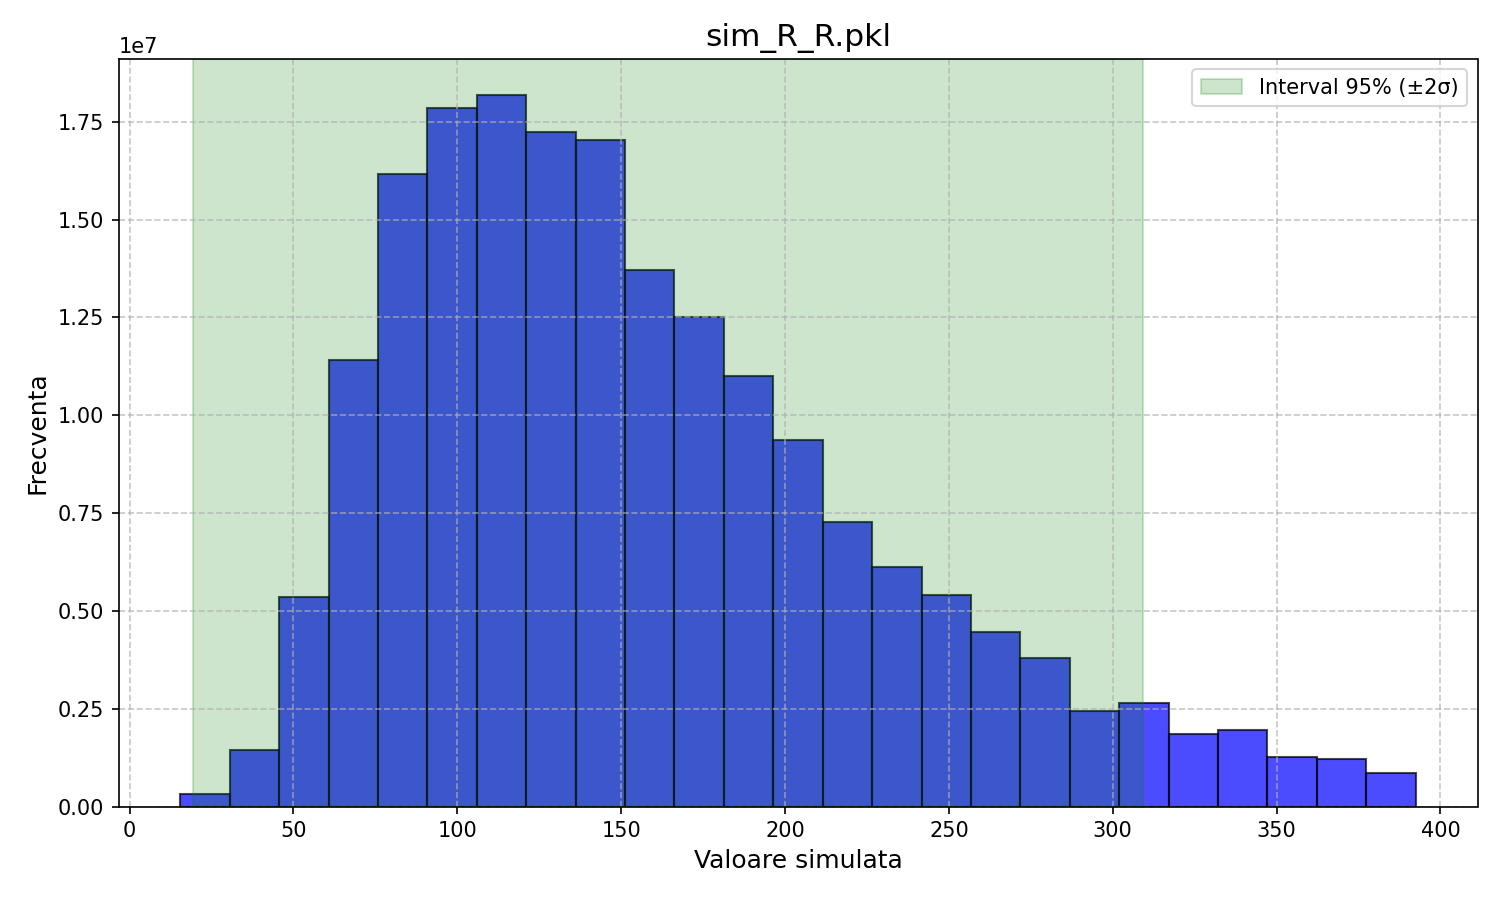
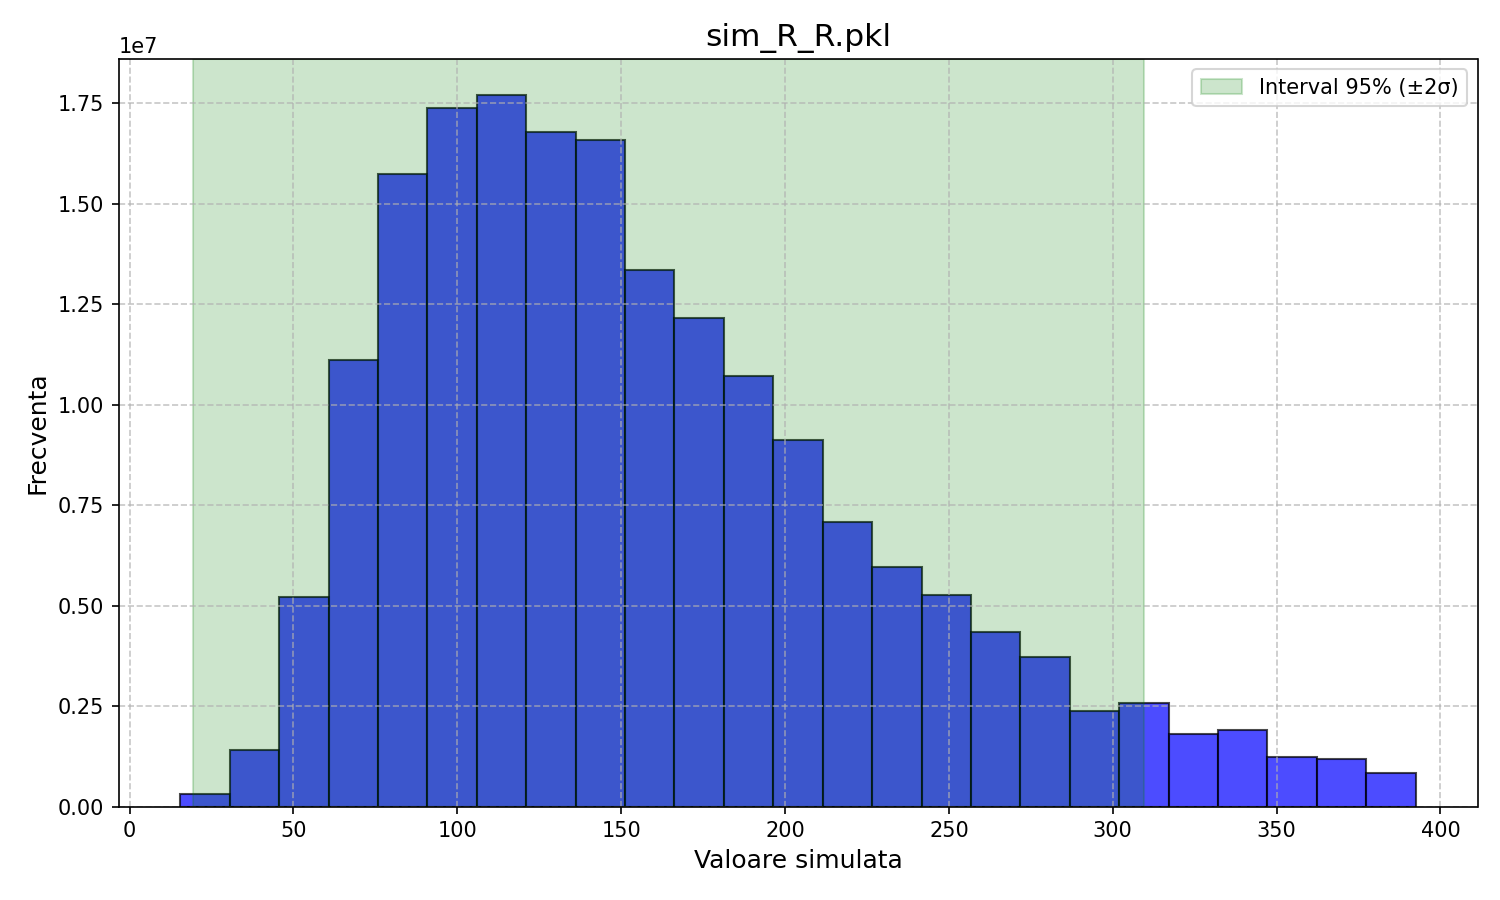
Is done

diff --git a/main.py b/main.py
@@ -3,16 +3,17 @@ import pickle
 import numpy as np
 import matplotlib.pyplot as plt
 
+
 # Functie pentru incarcare date dintr-un fisier .pkl
 def load_data_from_pickle(file_path):
     try:
-        # Incarca datele folosind pickle
         with open(file_path, "rb") as f:
             data = pickle.load(f)
         return np.array(data)
     except:
         print("Eroare la incarcarea fisierului:", file_path)
         return None
+
 
 def monte_carlo_simulation_batches(data, total_iterations=3_825_385_140, batch_size=1_000_000, hist_bins=100):
     if data is None or len(data) == 0:
@@ -29,18 +30,28 @@ def monte_carlo_simulation_batches(data, total_iterations=3_825_385_140, batch_s
         idx = np.random.randint(0, len(data), size=batch_size)
         vals = data[idx]
         mn, mx = vals.min(), vals.max()
-        if mn < gmin: gmin = mn
-        if mx > gmax: gmax = mx
+        if mn < gmin:
+            gmin = mn
+        if mx > gmax:
+            gmax = mx
         c, _ = np.histogram(vals, bins=hist_bins, range=hrange)
         hist_counts += c
 
-    return {"hist_counts": hist_counts, "hist_range": hrange, "hist_bins": hist_bins, "min": gmin, "max": gmax}
+    return {
+        "hist_counts": hist_counts,
+        "hist_range": hrange,
+        "hist_bins": hist_bins,
+        "min": gmin,
+        "max": gmax
+    }
+
 
 def plot_histogram_only(hist_counts, hist_range, hist_bins, output_path, title):
     plt.figure(figsize=(10, 6))
     hmin, hmax = hist_range
     edges = np.linspace(hmin, hmax, hist_bins + 1)
-    plt.bar(edges[:-1], hist_counts, width=np.diff(edges), alpha=0.7, color="blue", edgecolor="black")  # Bara histogramelor
+    plt.bar(edges[:-1], hist_counts, width=np.diff(edges), alpha=0.7,
+            color="blue", edgecolor="black")
 
     centers = 0.5 * (edges[:-1] + edges[1:])
     total = hist_counts.sum()
@@ -50,9 +61,10 @@ def plot_histogram_only(hist_counts, hist_range, hist_bins, output_path, title):
         mean = (centers * hist_counts).sum() / total
         var = ((centers - mean) ** 2 * hist_counts).sum() / total
         std = np.sqrt(var)
-        left = mean - 2 * std  # Limita stanga
-        right = mean + 2 * std  # Limita dreapta
-        plt.axvspan(left, right, color="green", alpha=0.2, label="Interval 95% (±2σ)")
+        left = mean - 2 * std
+        right = mean + 2 * std
+        plt.axvspan(left, right, color="green", alpha=0.2,
+                    label="Interval 95% (±2σ)")
 
     plt.title(title, fontsize=15)
     plt.xlabel("Valoare simulata", fontsize=12)
@@ -63,12 +75,15 @@ def plot_histogram_only(hist_counts, hist_range, hist_bins, output_path, title):
     plt.savefig(output_path, dpi=150)
     plt.close()
 
+
 if __name__ == "__main__":
     results_dir = "results"
     output_dir = "results_png"
     os.makedirs(output_dir, exist_ok=True)
 
-    total_iterations = 191_269_257
+    error = 0.001
+    trust = 0.99
+
     batch_size = 1_000_000
     hist_bins = 25
 
@@ -88,12 +103,24 @@ if __name__ == "__main__":
         if data is None:
             print("Incarcare esuata")
             continue
-        print(f"Ruleaza Monte Carlo ({total_iterations:,} iteratii, batch={batch_size:,})")
-        res = monte_carlo_simulation_batches(data, total_iterations, batch_size, hist_bins)
+
+        a = data.min()
+        b = data.max()
+
+        # Calculam numarul de simulari necesare
+        num_sims = int(np.ceil(np.abs(((b - a) ** 2) / (2 * error * 2) * np.log(2 / (1 - trust))))) + 1
+
+        print(f"Ruleaza Monte Carlo ({num_sims:,} simulari, batch={batch_size:,})")
+
+        res = monte_carlo_simulation_batches(data, total_iterations=num_sims,
+                                             batch_size=batch_size,
+                                             hist_bins=hist_bins)
         if not res:
             print("Niciun rezultat")
             continue
+
         out_name = os.path.splitext(pkl_file)[0] + "_hist.png"
         out_path = os.path.join(output_dir, out_name)
-        print(f"Salvat in{out_path}")
-        plot_histogram_only(res["hist_counts"], res["hist_range"], res["hist_bins"], out_path, pkl_file)
+        print(f"Salvat in {out_path}")
+        plot_histogram_only(res["hist_counts"], res["hist_range"],
+                            res["hist_bins"], out_path, pkl_file)
